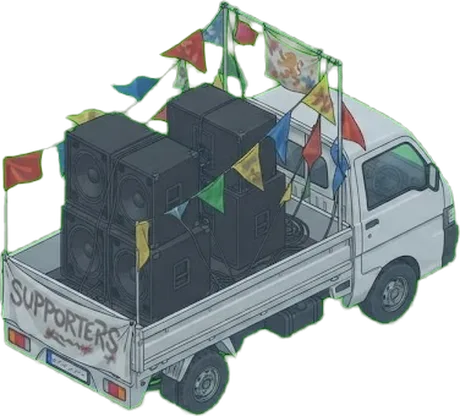
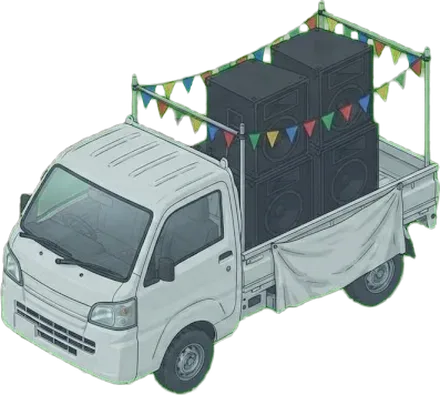
Maintien de l'ordre : camion sono vu de l'avant (ne roule plus à l'envers)
Claude-Session: https://claude.ai/code/session_011qFbLtjGGmRspjkRKJ9Efi

diff --git a/minijeux/bouclage.html b/minijeux/bouclage.html
@@ -624,7 +624,7 @@ const BOSS_NOM={tracteur:['un tracteur','tracteurs'],sono:['un camion sono','cam
 // Images vues de trois quarts : h = hauteur à l'écran (un manifestant ≈ .84), r = largeur/hauteur de l'image,
 // pied = ligne où les roues côté spectateur touchent la route (fractions de l'image, de l'avant à l'arrière), prof = recul jusqu'au centre.
 const VIMG={tracteur:{h:1.35,gauche:true,r:1.72,pied:[.08,.88,.92,.5],prof:.05},
-  sono:{h:1.45,gauche:false,r:1.1,pied:[.1,.9,.95,.66],prof:.05},
+  sono:{h:1.4,gauche:true,r:1.11,pied:[.1,.9,.9,.64],prof:.05},
   car:{h:1.45,gauche:true,r:1.5,pied:[.08,.88,.95,.51],prof:.05}};
 const vDemi=t=>VIMG[t].h*VIMG[t].r*.38; // demi-longueur au sol, en cases
 const TOUR_DECALE=1;

diff --git a/minijeux/src/bouclage.src.html b/minijeux/src/bouclage.src.html
@@ -135,7 +135,7 @@ const BOSS_NOM={tracteur:['un tracteur','tracteurs'],sono:['un camion sono','cam
 // Images vues de trois quarts : h = hauteur à l'écran (un manifestant ≈ .84), r = largeur/hauteur de l'image,
 // pied = ligne où les roues côté spectateur touchent la route (fractions de l'image, de l'avant à l'arrière), prof = recul jusqu'au centre.
 const VIMG={tracteur:{h:1.35,gauche:true,r:1.72,pied:[.08,.88,.92,.5],prof:.05},
-  sono:{h:1.45,gauche:false,r:1.1,pied:[.1,.9,.95,.66],prof:.05},
+  sono:{h:1.4,gauche:true,r:1.11,pied:[.1,.9,.9,.64],prof:.05},
   car:{h:1.45,gauche:true,r:1.5,pied:[.08,.88,.95,.51],prof:.05}};
 const vDemi=t=>VIMG[t].h*VIMG[t].r*.38; // demi-longueur au sol, en cases
 const TOUR_DECALE=1;
